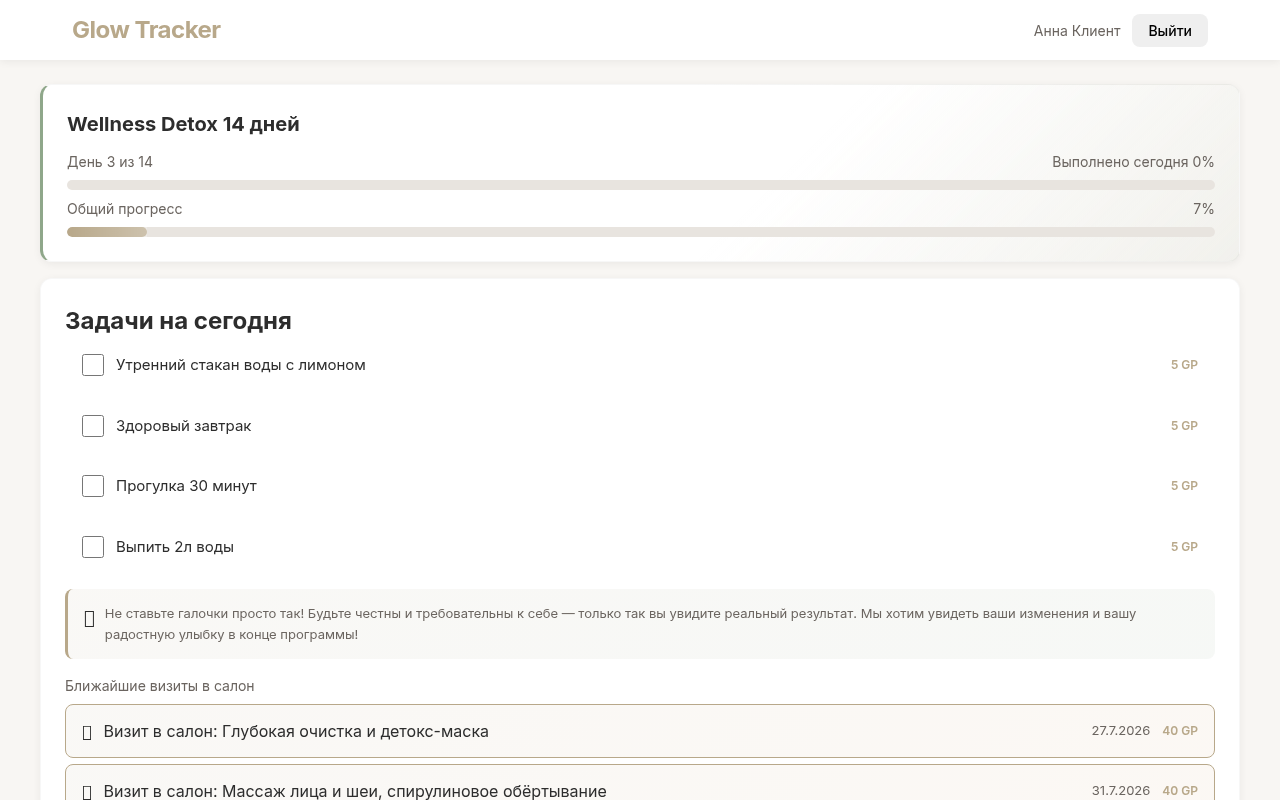
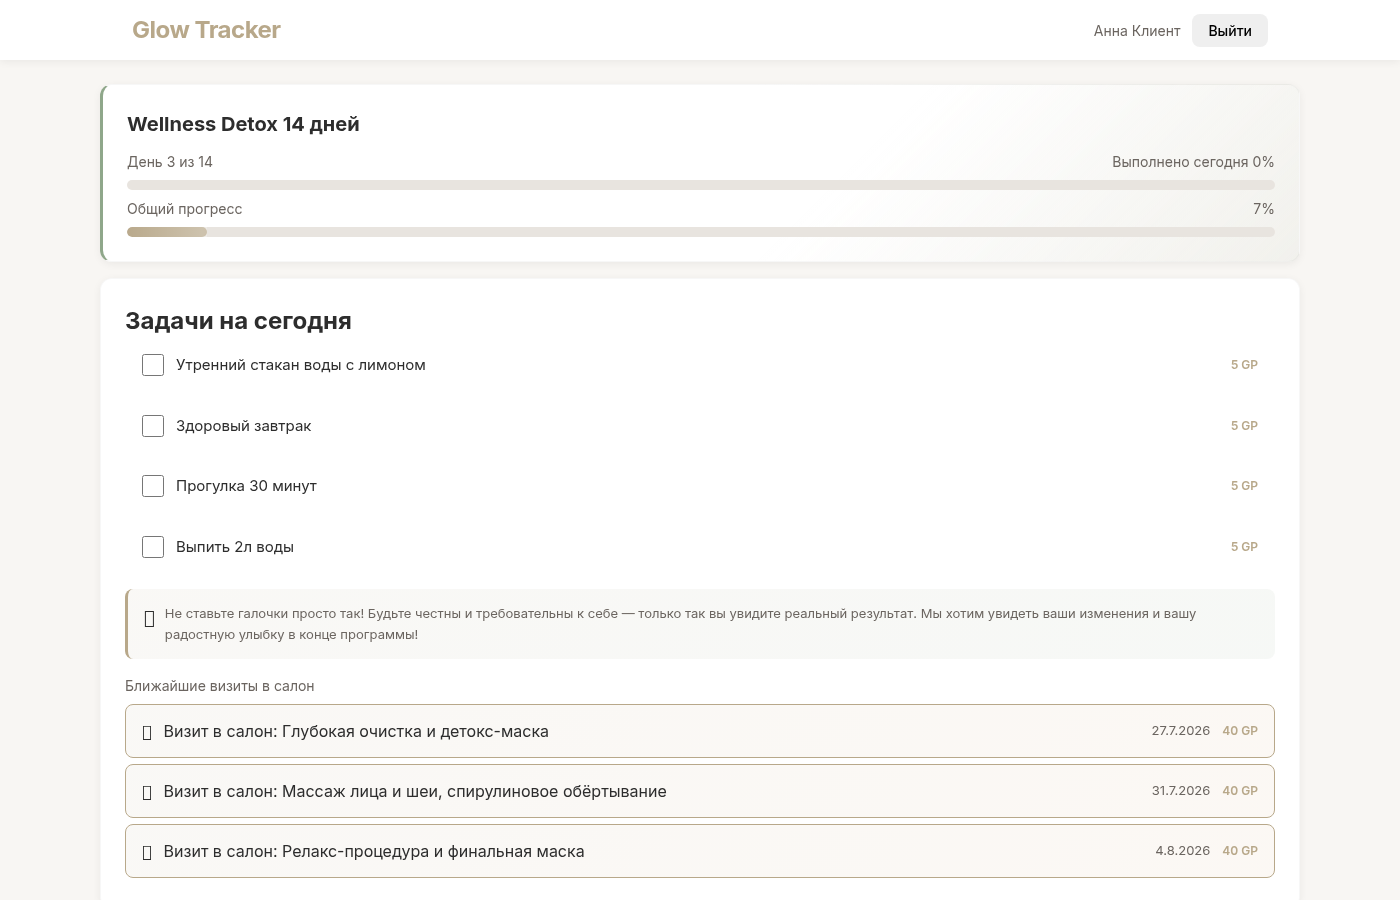
Update GT screenshots: login once + admin/curator/client sections

diff --git a/index.html b/index.html
@@ -690,28 +690,32 @@
           </div>
           <div class="project-screenshots">
             <div class="shot" onclick="openImgModal(this.querySelector('img').src)">
-              <img src="screenshots/gt-admin-login.png" alt="Вход — Администратор" loading="lazy">
-              <div class="shot-label">Администратор · Вход</div>
+              <img src="screenshots/gt-login.png" alt="Авторизация" loading="lazy">
+              <div class="shot-label">Авторизация</div>
             </div>
             <div class="shot" onclick="openImgModal(this.querySelector('img').src)">
-              <img src="screenshots/gt-admin-dashboard.png" alt="Дашборд — Администратор" loading="lazy">
-              <div class="shot-label">Администратор · Дашборд</div>
+              <img src="screenshots/gt-admin-clients.png" alt="Администратор — Клиенты" loading="lazy">
+              <div class="shot-label">Админ · Клиенты</div>
             </div>
             <div class="shot" onclick="openImgModal(this.querySelector('img').src)">
-              <img src="screenshots/gt-curator-login.png" alt="Вход — Куратор" loading="lazy">
-              <div class="shot-label">Куратор · Вход</div>
+              <img src="screenshots/gt-admin-programs.png" alt="Администратор — Программы" loading="lazy">
+              <div class="shot-label">Админ · Программы</div>
             </div>
             <div class="shot" onclick="openImgModal(this.querySelector('img').src)">
-              <img src="screenshots/gt-curator-dashboard.png" alt="Дашборд — Куратор" loading="lazy">
-              <div class="shot-label">Куратор · Дашборд</div>
+              <img src="screenshots/gt-admin-analytics.png" alt="Администратор — Аналитика" loading="lazy">
+              <div class="shot-label">Админ · Аналитика</div>
             </div>
             <div class="shot" onclick="openImgModal(this.querySelector('img').src)">
-              <img src="screenshots/gt-client-login.png" alt="Вход — Клиент" loading="lazy">
-              <div class="shot-label">Клиент · Вход</div>
+              <img src="screenshots/gt-curator-clients.png" alt="Куратор — Мои клиенты" loading="lazy">
+              <div class="shot-label">Куратор · Клиенты</div>
             </div>
             <div class="shot" onclick="openImgModal(this.querySelector('img').src)">
-              <img src="screenshots/gt-client-dashboard.png" alt="Дашборд — Клиент" loading="lazy">
+              <img src="screenshots/gt-client-dashboard.png" alt="Клиент — Дашборд" loading="lazy">
               <div class="shot-label">Клиент · Дашборд</div>
+            </div>
+            <div class="shot" onclick="openImgModal(this.querySelector('img').src)">
+              <img src="screenshots/gt-client-dashboard-full.png" alt="Клиент — Задачи и расписание" loading="lazy">
+              <div class="shot-label">Клиент · Задачи</div>
             </div>
           </div>
           <div class="project-tech">
